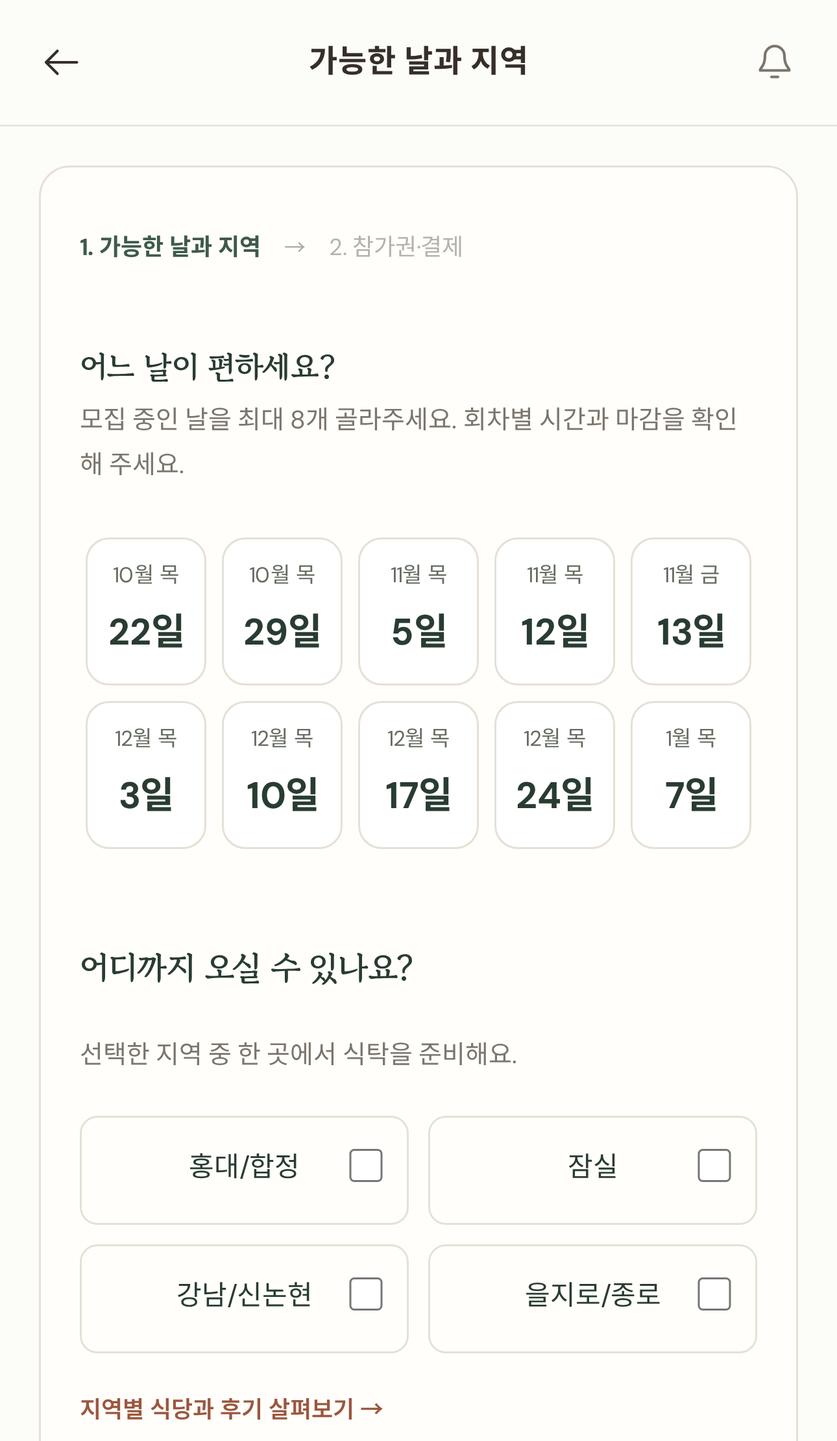
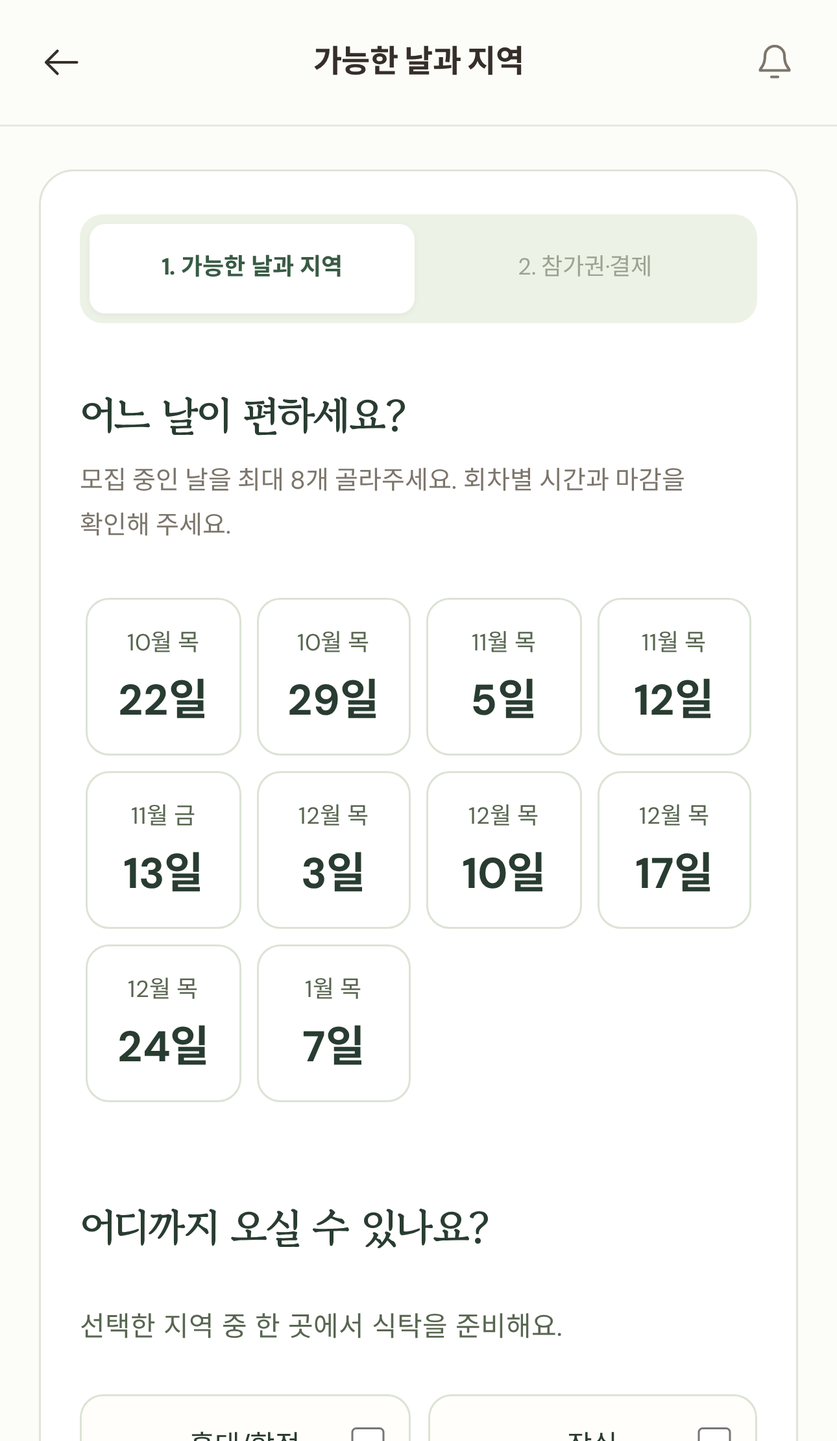
Polish participant mobile layouts and refresh guide screens

diff --git a/app/participant-mobile.css b/app/participant-mobile.css
@@ -1,0 +1,223 @@
+/* Participant phone layouts. Operator surfaces and 701px+ retain their layouts. */
+.evening-date{display:none}
+@media(max-width:700px){
+  .participant-page{
+    --phone-ink:#293c31;--phone-muted:#586651;--phone-line:#dfe5d9;--phone-sage:#edf2e6;
+    padding:26px 20px calc(112px + env(safe-area-inset-bottom))!important;
+    word-break:keep-all;overflow-wrap:break-word;
+  }
+  .participant-page :is(h1,h2,h3,p){word-break:keep-all;overflow-wrap:break-word}
+  .participant-page .page-heading{margin:0 0 25px}
+  .participant-page .page-heading h1{font-size:28px;letter-spacing:-.045em;line-height:1.4;margin-bottom:8px}
+  .participant-page .page-heading p{font-size:14px;line-height:1.8;color:var(--phone-muted);max-width:32em}
+  .participant-page .button{min-height:50px;font-size:14px;line-height:1.55;padding:13px 18px;border-radius:13px}
+  .participant-page .button.primary{box-shadow:none}
+  .participant-page .button:disabled{cursor:default;opacity:.5}
+  .participant-page .panel{background:#fff;border-color:var(--phone-line);box-shadow:none;border-radius:18px;padding:22px 20px;min-width:0}
+  .participant-page .panel h2{font-size:20px;line-height:1.5;letter-spacing:-.035em}
+  .participant-page .muted,.participant-page .fineprint{color:var(--phone-muted);line-height:1.8}
+  .participant-page .fineprint{font-size:12px;margin-top:20px}
+  .participant-page .notice{font-size:13px;line-height:1.85;border-color:var(--phone-line);border-radius:13px;background:#f2f5ee;color:var(--phone-ink);padding:15px 16px}
+  .participant-page .notice p{font-size:13px;line-height:1.85}
+  .participant-page .inline-link{font-size:13px;line-height:1.8;color:#385b44;min-height:44px;display:inline-flex;align-items:center}
+  .topbar:not(.admin-topbar){height:calc(64px + env(safe-area-inset-top));padding:env(safe-area-inset-top) 20px 0;border-bottom-color:#e4e9df}
+  .topbar:not(.admin-topbar) .brand{gap:10px;min-width:0}
+  .topbar:not(.admin-topbar) .brand-name{font-size:19px;letter-spacing:-.045em}
+  .topbar:not(.admin-topbar) .brand-symbol{width:32px;height:32px}
+  .topbar:not(.admin-topbar) .mobile-header-actions{gap:12px!important}
+  .topbar:not(.admin-topbar) .mobile-header-actions>a{min-height:44px;display:inline-flex;align-items:center;font-size:13px!important;color:#385b44}
+  .topbar:not(.admin-topbar) .focus-mobile-heading{gap:12px;min-width:0;align-items:center}
+  .topbar:not(.admin-topbar) .focus-mobile-heading>a{min-width:44px;min-height:44px;display:grid;place-items:center}
+  .topbar:not(.admin-topbar) .focus-mobile-title{font-size:16px;letter-spacing:-.035em;line-height:1.5;min-width:0}
+  .mobile-dock{height:calc(76px + env(safe-area-inset-bottom));padding:8px 14px calc(8px + env(safe-area-inset-bottom))!important;background:rgba(252,252,248,.98)!important}
+  .mobile-dock>a{min-height:56px;font-size:12px!important;font-weight:500;line-height:1.4;color:#586651!important;justify-content:center;gap:4px!important}
+  .mobile-dock>a>span{height:31px!important;width:48px!important;border-radius:12px!important}
+  .mobile-dock>a.active{color:#294b32!important;font-weight:700}
+  .participant-page .experience-section{margin:28px 0}
+  .participant-page .experience-section-heading{display:grid;grid-template-columns:minmax(0,1fr) auto;align-items:center;gap:7px 12px;margin-bottom:17px}
+  .participant-page .experience-section-heading>div{display:contents}
+  .participant-page .experience-section-heading h2{grid-column:1;grid-row:1}
+  .participant-page .experience-section-heading p{grid-column:1/-1}
+  .participant-page .experience-section-heading>a{grid-column:2;grid-row:1}
+  .participant-page .experience-section-heading h2{font-size:20px;line-height:1.5;letter-spacing:-.045em}
+  .participant-page .experience-section-heading p{font-size:13px;line-height:1.8;margin-top:7px;color:var(--phone-muted)}
+  .participant-page .experience-section-heading>a{font-size:12px;min-height:40px;color:#486044;align-items:center}
+  .participant-page .discovery-hero{border-radius:22px;margin:25px 0 32px;background:#edf2e6;border:1px solid #e5eadf}
+  .participant-page .discovery-hero-photo{min-height:190px!important}
+  .participant-page .discovery-hero-photo img{object-position:50% 54%;filter:none}
+  .participant-page .discovery-hero-photo:after{content:'';position:absolute;inset:30% 0 0;background:linear-gradient(transparent,rgba(25,39,26,.62));pointer-events:none}
+  .participant-page .discovery-hero-photo>div{z-index:1;left:23px;right:23px;bottom:20px}
+  .participant-page .discovery-hero-photo>div>span{font-size:12px;margin-bottom:5px}
+  .participant-page .discovery-hero-photo strong{font-size:17px;line-height:1.6}
+  .participant-page .discovery-hero-copy{padding:25px 24px 24px!important}
+  .participant-page .discovery-hero-copy .quiet-kicker{display:none}
+  .participant-page .discovery-hero-copy h2{font-size:30px!important;line-height:1.5!important;letter-spacing:-.055em;margin:0 0 14px}
+  .participant-page .discovery-hero-copy p{font-size:14px!important;line-height:1.9;margin:0 0 20px;color:#50644d}
+  .participant-page .discovery-hero-copy .button{width:100%;min-height:51px!important;justify-content:center;font-size:15px!important}
+  .participant-page .hero-note{font-size:12px;color:#586651;text-align:center;margin-top:12px}
+  .participant-page .discovery-hero-returning{margin:26px 0 32px;border:0;border-left:3px solid #b9cbb0;border-radius:0 15px 15px 0;background:#f1f4eb}
+  .participant-page .discovery-hero-returning .discovery-hero-photo{display:none}
+  .participant-page .discovery-hero-returning .discovery-hero-copy{padding:20px!important}
+  .participant-page .discovery-hero-returning .discovery-hero-copy h2{font-size:23px!important;line-height:1.45!important;margin-bottom:10px}
+  .participant-page .discovery-hero-returning .discovery-hero-copy h2 br{display:none}
+  .participant-page .discovery-hero-returning .discovery-hero-copy p{font-size:13px!important;line-height:1.8;margin-bottom:16px}
+  .participant-page .discovery-hero-returning .discovery-hero-copy p br{display:none}
+  .participant-page .discovery-hero-returning .hero-note{display:none}
+  .participant-page .evening-grid{grid-template-columns:minmax(0,1fr);gap:12px}
+  .participant-page .evening-card{display:grid;grid-template-columns:58px minmax(0,1fr);gap:15px;align-items:center;padding:16px;background:#fff;border:1px solid var(--phone-line);border-radius:17px;box-shadow:none}
+  .participant-page .evening-card .evening-illustration{display:none}
+  .participant-page .evening-date{display:flex;flex-direction:column;align-items:center;justify-content:center;gap:5px;min-height:76px;border-radius:13px;background:#edf2e6;color:#385b44}
+  .participant-page .evening-1 .evening-date{background:#f3ede2;color:#765832}
+  .participant-page .evening-2 .evening-date{background:#e9efec;color:#36594e}
+  .participant-page .evening-date small{font-size:12px;line-height:1.4}
+  .participant-page .evening-date strong{font:600 29px/1.2 'Gowun Batang',serif;font-variant-numeric:tabular-nums}
+  .participant-page .evening-card-copy{padding:0;min-width:0}
+  .participant-page .evening-card-copy .section-title{gap:7px;align-items:center;margin-bottom:9px;flex-wrap:wrap}
+  .participant-page .evening-card-copy .meeting-state{font-size:11px;padding:3px 6px;border-radius:6px}
+  .participant-page .evening-card-copy small{font-size:12px;color:#586651}
+  .participant-page .evening-card-copy h3{font-size:17px;line-height:1.5;margin:0 0 5px;letter-spacing:-.035em}
+  .participant-page .evening-card-copy p{font-size:13px;line-height:1.6;margin:0 0 10px;color:#586651}
+  .participant-page .evening-card-copy>div:last-child{display:flex;justify-content:space-between;align-items:center;flex-wrap:wrap;gap:5px 10px;border-top:0;padding-top:0}
+  .participant-page .evening-card-copy>div:last-child>span{font-size:12px;line-height:1.6;margin:0;color:#586651}
+  .participant-page .evening-card-copy strong{font-size:12px;color:#385b44;white-space:nowrap}
+  .participant-page .meet-card{padding:19px 18px;border-radius:19px;border:1px solid var(--phone-line);box-shadow:none;background:white}
+  .participant-page .meet-card-top{gap:10px;align-items:center;flex-wrap:wrap;margin-bottom:18px}
+  .participant-page .meet-card-top>span:last-child{font-size:12px;color:#586651;line-height:1.7}
+  .participant-page .meeting-state{font-size:12px;line-height:1.6;padding:4px 8px;white-space:normal}
+  .participant-page .meet-card-main{display:grid;grid-template-columns:54px minmax(0,1fr);gap:14px}
+  .participant-page .meet-card-main>svg{display:none}
+  .participant-page .meet-card-main>div{min-width:0}
+  .participant-page .meet-card-art{width:54px;height:72px;border-radius:13px;background:#eef2e8}
+  .participant-page .meet-card-art svg{width:30px;height:30px}
+  .participant-page .meet-card-art>span{font-size:12px;line-height:1.5}
+  .participant-page .meet-card-main h2{font-family:'Noto Sans KR',sans-serif;font-size:18px;line-height:1.65;font-weight:700;letter-spacing:-.045em;margin:0 0 7px}
+  .participant-page .meet-card-main p{font-size:13px;line-height:1.7;margin:0 0 9px;color:#586651}
+  .participant-page .interest-chips{gap:5px}
+  .participant-page .interest-chips>span{font-size:12px;line-height:1.6;padding:3px 7px;color:#52634b;background:#f1f4ed;border-radius:6px}
+  .participant-page .meet-card-footer{display:flex;flex-wrap:wrap;gap:10px;align-items:center;padding-top:16px;margin-top:18px;border-top-color:#e7ece2}
+  .participant-page .meet-card-footer>span{font-size:13px;color:#586651}
+  .participant-page .meet-card-footer>a{font-size:13px;min-height:44px;margin-left:auto}
+  .participant-page .meet-card-footer .people-stack>span{width:26px;height:26px;font-size:10px;margin-left:-7px}
+  .participant-page .meet-card-footer .people-stack>span:first-child{margin-left:0}
+  .participant-page .meeting-tabs{display:grid;grid-template-columns:none;grid-auto-flow:column;grid-auto-columns:minmax(0,1fr);gap:4px;background:#edf2e6;border:0;border-radius:13px;padding:5px;margin:0 0 22px}
+  .participant-page .meeting-tabs>a{font-size:13px;line-height:1.6;justify-content:center;gap:5px;min-height:46px;padding:10px 4px;border:0;color:#586651;border-radius:9px;white-space:normal}
+  .participant-page .meeting-tabs>a:focus-visible,.participant-page .conversation-row:focus-visible{outline-offset:-3px}
+  .participant-page .meeting-tabs>a[aria-current=page]{background:#fff;color:#294b32;box-shadow:0 1px 4px #293c3110;border:0}
+  .participant-page .meeting-tabs>a>span{font-size:11px;padding:1px 5px;min-width:20px;background:transparent}
+  .participant-page .pending-meeting-card{padding:22px 19px;border:1px solid var(--phone-line);border-radius:18px;box-shadow:none}
+  .participant-page .pending-meeting-card h2{font-size:19px;line-height:1.6}
+  .participant-page .pending-meeting-card>p,.participant-page .pending-meeting-card p.pending-next{font-size:13px;line-height:1.9;color:#586651}
+  .participant-page .matching-progress{font-size:12px;line-height:1.6;gap:6px;flex-wrap:wrap}
+  .participant-page .meeting-bottom-link{font-size:14px;min-height:52px;padding:13px;border:1px dashed #b9cbb0;border-radius:13px;margin-top:22px}
+  .participant-page .next-action-row{padding:17px 16px;border-radius:15px;gap:12px;min-width:0;align-items:flex-start}
+  .participant-page .next-action-row>div{min-width:0}
+  .participant-page .next-action-row strong{font-size:15px;line-height:1.7}
+  .participant-page .next-action-row p{font-size:13px;line-height:1.8;color:#586651}
+  .participant-page .next-action-row>a{font-size:13px;min-height:44px;flex-shrink:0}
+  .participant-page .experience-empty{padding:38px 22px;background:#f0f4e9;border-radius:19px}
+  .participant-page .experience-empty h2{font-size:22px;line-height:1.6;margin:17px 0 12px}
+  .participant-page .experience-empty p{font-size:14px;line-height:1.9;color:#586651}
+  .participant-page .experience-empty>a{font-size:14px;min-height:44px;display:inline-flex;align-items:center}
+  .participant-page .how-dinner-works{margin-top:34px;padding:30px 0;gap:28px}
+  .participant-page .how-dinner-works>div>h2{font-size:25px;line-height:1.65;letter-spacing:-.045em}
+  .participant-page .how-dinner-works>div>p,.participant-page .how-dinner-works li p{font-size:14px;line-height:1.9;color:#586651}
+  .participant-page .how-dinner-works li h3{font-size:16px;line-height:1.6}
+  .participant-page .experience-note p,.participant-page .experience-note>a{font-size:13px;line-height:1.9;color:#586651}
+  .participant-page .profile-identity-new{padding:23px 20px!important;border:1px solid #dce5d3;border-radius:21px;background:#edf2e6;margin-bottom:28px}
+  .participant-page .profile-identity-new .profile-avatar{width:55px;height:55px;font-size:23px;background:#dce7cf;color:#385b44}
+  .participant-page .profile-identity-new>div{min-width:0}
+  .participant-page .profile-identity-new h2{font-size:21px!important;line-height:1.6;letter-spacing:-.04em}
+  .participant-page .profile-identity-new p{font-size:13px;line-height:1.8;color:#586651}
+  .participant-page .profile-menu-group{margin-top:29px}
+  .participant-page .profile-menu-group>h2{font-size:13px;font-family:'Noto Sans KR',sans-serif;font-weight:600;color:#586651;margin:0 0 12px 3px}
+  .participant-page .profile-menu-group .compact-list{border-radius:17px;border-color:var(--phone-line)}
+  .participant-page .profile-menu-group .compact-row{padding:17px 16px;gap:13px;min-height:79px;border-bottom-color:#edf0e8}
+  .participant-page .profile-menu-group .row-icon{width:32px;height:36px;color:#57734f;flex-shrink:0}
+  .participant-page .profile-menu-group .row-copy{min-width:0}
+  .participant-page .profile-menu-group .row-copy>strong{font-size:15px;line-height:1.65;letter-spacing:-.025em}
+  .participant-page .profile-menu-group .row-copy>small{font-size:13px;line-height:1.8;color:#586651;margin-top:3px}
+  .participant-page .profile-signout{padding:24px 2px}
+  .participant-page .profile-signout button{font-size:13px;min-height:44px;color:#586651}
+  .participant-page.focus-page{padding:22px 20px calc(36px + env(safe-area-inset-bottom))!important}
+  .participant-page.focus-page .form-stack{gap:21px}
+  .participant-page.focus-page .form-stack>label,.participant-page .form-grid>label{font-size:14px;line-height:1.7;font-weight:500;gap:8px}
+  .participant-page.focus-page :is(input:not([type=checkbox]):not([type=radio]),select,textarea){font-size:16px;min-height:49px;border-radius:12px;border-color:#d8e1d1;background:#fff;color:#293c31}
+  .participant-page.focus-page .form-stack>p{font-size:14px;line-height:1.85}
+  .participant-page.focus-page .form-stack h2{font-size:21px;line-height:1.6;margin-top:3px}
+  .participant-page .application-progress{display:grid;grid-template-columns:none;grid-auto-flow:column;grid-auto-columns:minmax(0,1fr);gap:4px;border:0;background:#edf2e6;border-radius:12px;padding:5px;margin:0 0 7px}
+  .participant-page .application-progress>span{display:none}
+  .participant-page .application-progress button{font-size:12px!important;min-height:46px;padding:10px 5px;border:0;border-radius:8px;line-height:1.6;color:#586651}
+  .participant-page .application-progress [aria-current=step]{background:#fff;color:#385b44;box-shadow:0 1px 3px #293c3110}
+  .participant-page .availability-calendar{grid-template-columns:repeat(4,minmax(0,1fr));gap:8px;max-height:none;overflow:visible;padding:3px}
+  .participant-page .availability-day{position:relative;min-height:81px;border-radius:12px;gap:7px;border-color:#dce3d5;background:white}
+  .participant-page .availability-day small{font-size:12px;color:#586651;line-height:1.5}
+  .participant-page .availability-day strong{font-size:22px;line-height:1.3;color:#293c31}
+  .participant-page .availability-day.selected{background:#edf3e6;border-color:#55784d;box-shadow:inset 0 0 0 1px #55784d}
+  .participant-page .availability-day.selected:after{content:'✓';position:absolute;right:5px;top:2px;font-size:11px;font-weight:700;color:#385b44;pointer-events:none}
+  .participant-page .availability-areas{gap:9px}
+  .participant-page .availability-areas .event-option{padding:14px 12px;min-height:55px;border-color:#dce3d5;border-radius:12px;font-size:14px;line-height:1.6;gap:8px}
+  .participant-page .availability-areas input{accent-color:#385b44}
+  .participant-page .pass-grid{grid-template-columns:1fr;gap:11px}
+  .participant-page .pass-option{padding:18px 18px 18px 48px!important;border-radius:15px;border-color:#dce3d5;min-height:112px}
+  .participant-page .pass-option input{top:22px!important}
+  .participant-page .pass-option span{font-size:15px!important;line-height:1.6}
+  .participant-page .pass-option strong{font-size:23px!important;line-height:1.5}
+  .participant-page .pass-option small{font-size:13px!important;line-height:1.7;color:#586651}
+  .participant-page .conversation-list{border-radius:18px;border-color:var(--phone-line)}
+  .participant-page .conversation-row{padding:19px 15px;gap:13px;min-height:107px}
+  .participant-page .conversation-avatar{width:51px;height:56px;border-radius:14px}
+  .participant-page .conversation-copy{min-width:0}
+  .participant-page .conversation-copy>div{align-items:flex-start;gap:10px}
+  .participant-page .conversation-copy h2{font-size:16px;line-height:1.6;white-space:normal;letter-spacing:-.035em}
+  .participant-page .conversation-copy p{font-size:14px;line-height:1.7;margin-top:6px;color:#586651}
+  .participant-page .conversation-copy small{font-size:12px;line-height:1.8;color:#586651}
+  .participant-page .conversation-copy>span{font-size:12px;line-height:1.8;color:#586651}
+  .participant-page .chat-room-heading{display:grid;grid-template-columns:1fr 1fr;gap:13px 10px;padding:19px 17px;border-radius:17px;border-color:var(--phone-line);margin-bottom:18px}
+  .participant-page .chat-room-heading>div{grid-column:1/-1;min-width:0}
+  .participant-page .chat-room-heading h2{font-size:18px;line-height:1.65;letter-spacing:-.04em;margin-bottom:7px}
+  .participant-page .chat-room-heading p{font-size:13px;line-height:1.8;color:#586651}
+  .participant-page .chat-room-heading>a{min-height:44px;border:1px solid #dfe5d9;border-radius:10px;justify-content:center;font-size:13px;line-height:1.6;color:#385b44}
+  .participant-page .chat-timeline{padding:20px 13px;border-radius:17px;background:#f0f4ea;gap:23px}
+  .participant-page .chat-message{max-width:94%;gap:9px;min-width:0}
+  .participant-page .chat-message strong{font-size:12px;line-height:1.7;margin-bottom:6px;color:#52654b}
+  .participant-page .chat-person-avatar{width:28px;height:28px;border-radius:10px;background:#dfe9d4;font-size:11px}
+  .participant-page .chat-message-line{min-width:0;gap:5px}
+  .participant-page .chat-message-line>p{font-size:15px;line-height:1.85;padding:11px 13px;color:#293c31;border-radius:0 14px 14px 14px;min-width:0;word-break:keep-all;overflow-wrap:anywhere}
+  .participant-page .chat-message.own .chat-message-line>p{border-radius:14px 0 14px 14px;background:#dfead1}
+  .participant-page .chat-timeline .chat-message time{font-size:11px;color:#586651}
+  .participant-page .chat-system-message{max-width:100%;gap:8px;padding:14px 16px;border-radius:14px;background:#ffffffa6;color:#586651}
+  .participant-page .chat-system-message p{font-size:13px;line-height:1.9;color:#586651}
+  .participant-page .chat-compose-new{padding-top:17px;gap:9px}
+  .participant-page .chat-compose-new>input{font-size:16px;min-height:52px;border-radius:14px;border-color:#d8e1d1}
+  .participant-page .chat-compose-new>button{height:50px;width:50px;border-radius:14px;flex-shrink:0}
+  .participant-page .chat-archived-note{font-size:13px;line-height:1.9;color:#586651}
+  .participant-page .table-detail-heading h2{font-size:24px;line-height:1.65;letter-spacing:-.045em;margin:15px 0 12px}
+  .participant-page .table-detail-heading>p{font-size:14px;line-height:1.8;color:#586651}
+  .participant-page .focus-switcher{display:grid;grid-template-columns:none;grid-auto-flow:column;grid-auto-columns:minmax(0,1fr);gap:3px;background:#edf2e6;border:0;border-radius:12px;padding:5px;margin:23px 0}
+  .participant-page .focus-switcher>button,.participant-page .focus-switcher>a{font-size:12px!important;line-height:1.6;min-height:48px;padding:9px 5px;border:0;border-radius:8px;justify-content:center;display:flex;align-items:center;color:#586651;text-align:center}
+  .participant-page .focus-switcher [aria-pressed=true]{background:white;color:#385b44;box-shadow:0 1px 3px #293c3110;border:0}
+  .participant-page .venue-card h3{font-size:23px;line-height:1.55;margin:0 0 12px}
+  .participant-page .venue-card p{font-size:14px;line-height:1.9;color:#586651}
+  .participant-page .venue-card small{font-size:12px;line-height:1.8;color:#586651}
+  .participant-page .detail-disclosure{border-color:#dfe5d9;border-radius:15px;padding:17px 18px;box-shadow:none}
+  .participant-page .detail-disclosure>summary{font-size:14px;line-height:1.85;min-height:27px;font-weight:600;cursor:pointer}
+  .participant-page .detail-disclosure p{font-size:14px;line-height:1.9;color:#586651}
+  .participant-page .table-detail-actions{padding-top:8px}
+  .participant-page #check-in-help{font-size:13px;line-height:1.85;margin:13px 0 18px}
+  .participant-page .member-list li{min-width:0;font-size:14px;line-height:1.8}
+  .participant-page .member-list small{font-size:13px;color:#586651}
+  .participant-page .notification-row{border-color:#dfe5d9;border-radius:15px;padding:18px 17px;font-size:14px;line-height:1.85}
+  .participant-page .notification-row p{font-size:14px;line-height:1.85}
+  .participant-page .journey-state{font-size:14px;line-height:1.9;padding:32px 20px}
+}
+@media(max-width:375px){
+  .participant-page .meet-card{padding:17px 15px}
+  .participant-page .meet-card-main{grid-template-columns:46px minmax(0,1fr);gap:12px}
+  .participant-page .meet-card-art{width:46px;height:65px}
+  .participant-page .meet-card-main h2{font-size:17px}
+  .participant-page .evening-card{grid-template-columns:50px minmax(0,1fr);gap:12px;padding:15px 13px}
+  .participant-page .evening-card-copy h3{font-size:16px}
+}
+
+@media(max-width:430px){.participant-page .meet-card-footer>a{flex-basis:100%;justify-content:flex-end}}
+@media(max-width:700px) and (hover:none){.participant-page .evening-card:hover{transform:none;box-shadow:none;border-color:#dfe5d9}}

diff --git a/components/meeting-experience.tsx b/components/meeting-experience.tsx
@@ -10,10 +10,11 @@ const time=(v:string)=>new Intl.DateTimeFormat('ko-KR',{timeZone:'Asia/Seoul',ho
 const remaining=(v:string)=>{const hours=Math.max(0,Math.ceil((+new Date(v)-Date.now())/3600000));return hours>=24?`${Math.ceil(hours/24)}일 뒤 마감`:`${hours}시간 뒤 마감`;};
 function Avatars({members=[],large=false}:{members?:any[];large?:boolean}){return <div className={`people-stack ${large?'large':''}`} aria-label={`${members.length}명의 식탁 멤버`}>{members.slice(0,6).map((m:any,i:number)=><span className={`person-color-${i%6}`} key={m.user_id??i} title={m.display_name}>{m.display_name?.slice(0,1)||'나'}</span>)}</div>;}
 function MeetingCard({table,past=false}:{table:any;past?:boolean}){return <article className="meet-card"><div className="meet-card-top"><span className={`meeting-state ${past?'finished':'ready'}`}>{past?'함께한 저녁':'만남 확정'}</span><span>{date(table.starts_at)} {time(table.starts_at)}</span></div><Link className="meet-card-main" href={`/tables/${table.table_id}`}><div className="meet-card-art"><UiIcon name="table" size={45}/><span>{table.area.split('/')[0]}</span></div><div><h2>{table.title}</h2><p><UiIcon name="pin" size={15}/>{table.venue_name||'장소를 준비하고 있어요'}</p><div className="interest-chips">{table.curation?.keywords?.slice(0,3).map((k:any)=><span key={k.label}>{k.label}</span>)}</div></div><UiIcon name="chevron"/></Link><div className="meet-card-footer"><Avatars members={table.members}/><span>{table.members?.length??0}명이 함께해요</span><Link href={past?`/tables/${table.table_id}${table.feedback_submitted||table.attendance_status==='ATTENDED'?'/feedback':''}`:`/tables/${table.table_id}/chat`}>{past?(table.feedback_submitted?'내 후기 보기':table.attendance_status==='ATTENDED'?'후기 남기기':'만남 기록 보기'):'대화방 열기'}<UiIcon name={past?'leaf':'message'} size={16}/></Link></div></article>;}
-function OpenEvenings({data,compact=false}:{data:any;compact?:boolean}){return <section className="experience-section"><div className="experience-section-heading"><div><h2>{compact?'다음 저녁을 골라보세요':'어느 저녁에 만날까요?'}</h2><p>날짜와 지역을 고르면, 어울리는 식탁을 준비해요.</p></div>{!compact&&<Link href="/apply">일정 모두 보기<UiIcon name="chevron" size={16}/></Link>}</div><div className="evening-grid">{data?.events?.slice(0,compact?3:6).map((e:any,i:number)=><Link className={`evening-card evening-${i%3}`} key={e.id} href={`/apply?day=${e.day}&area=${encodeURIComponent(e.area)}`}><div className="evening-illustration" aria-hidden="true"><span className="illustrated-plate"><span/><i/><b/></span><em>{['이야기가 모이는 자리','취향이 이어지는 저녁','새로운 목요일'][i%3]}</em></div><div className="evening-card-copy"><div className="section-title"><span className="meeting-state recruiting">모집 중</span><small>{remaining(e.application_deadline)}</small></div><h3>{e.area}</h3><p>{date(e.starts_at)} {time(e.starts_at)}</p><div><span>{e.registrations>0?`${e.registrations}명이 신청했어요`:'새로운 식탁을 준비해요'}</span><strong>일정 선택<UiIcon name="chevron" size={15}/></strong></div></div></Link>)}</div>{data?.events?.length===0&&<div className="experience-empty"><h3>다음 식탁을 준비하고 있어요</h3><p>새로운 일정이 열리면 이곳에서 확인할 수 있어요.</p><Link href="/applications">내 만남 확인하기</Link></div>}</section>;}
+function EveningDate({value}:{value:string}){const parts=new Intl.DateTimeFormat('ko-KR',{timeZone:'Asia/Seoul',month:'numeric',day:'numeric'}).formatToParts(new Date(value));return <span className="evening-date" aria-hidden="true"><small>{parts.find(p=>p.type==='month')?.value}월</small><strong>{parts.find(p=>p.type==='day')?.value}</strong></span>;}
+function OpenEvenings({data,compact=false}:{data:any;compact?:boolean}){return <section className="experience-section"><div className="experience-section-heading"><div><h2>{compact?'다음 저녁을 골라보세요':'어느 저녁에 만날까요?'}</h2><p>날짜와 지역을 고르면, 어울리는 식탁을 준비해요.</p></div>{!compact&&<Link href="/apply">일정 모두 보기<UiIcon name="chevron" size={16}/></Link>}</div><div className="evening-grid">{data?.events?.slice(0,compact?3:6).map((e:any,i:number)=><Link className={`evening-card evening-${i%3}`} key={e.id} href={`/apply?day=${e.day}&area=${encodeURIComponent(e.area)}`}><EveningDate value={e.starts_at}/><div className="evening-illustration" aria-hidden="true"><span className="illustrated-plate"><span/><i/><b/></span><em>{['이야기가 모이는 자리','취향이 이어지는 저녁','새로운 목요일'][i%3]}</em></div><div className="evening-card-copy"><div className="section-title"><span className="meeting-state recruiting">모집 중</span><small>{remaining(e.application_deadline)}</small></div><h3>{e.area}</h3><p>{date(e.starts_at)} {time(e.starts_at)}</p><div><span>{e.registrations>0?`${e.registrations}명이 신청했어요`:'새로운 식탁을 준비해요'}</span><strong>일정 선택<UiIcon name="chevron" size={15}/></strong></div></div></Link>)}</div>{data?.events?.length===0&&<div className="experience-empty"><h3>다음 식탁을 준비하고 있어요</h3><p>새로운 일정이 열리면 이곳에서 확인할 수 있어요.</p><Link href="/applications">내 만남 확인하기</Link></div>}</section>;}
 export function DiscoverView({loggedIn=true}:{loggedIn?:boolean}){
  const q=useJourney('/api/discover'),journey=useJourney(loggedIn?'/api/journey':null,15000),next=loggedIn?journey.data?.upcoming?.[0]:null,pending=loggedIn?(journey.data?.applications??[]).filter((a:any)=>a.status==='SUBMITTED'&&!a.table_id&&['WAITING','MATCHING','REALLOCATING'].includes(a.matching_status)):[];
- const hero=<section className={`discovery-hero ${loggedIn?'':'public-discovery-hero'}`}><div className="discovery-hero-copy"><span className="quiet-kicker">우연한 식탁</span><h2>{next?<>다가오는 저녁엔,<br/>혼자가 아닌 저녁.</>:<>좋은 만남은,<br/>같은 식탁에서.</>}</h2><p>취향이 닮은 4~6명과 함께하는 저녁.<br/>날짜를 고르면, 만남은 우리가 준비할게요.</p><Link className="button primary" href={next?`/tables/${next.table_id}`:'/apply'}>{next?'나의 식탁 확인하기':'만날 날짜 고르기'}<UiIcon name="chevron" size={17}/></Link><span className="hero-note">매주 목요일 저녁 7시 30분</span></div><div className="discovery-hero-photo"><img src="/dining-editorial.webp" width="1200" height="800" alt="새로운 이야기를 기다리는 따뜻한 저녁 식탁" fetchPriority="high"/><div><span>우리의 다음 이야기</span><strong>같이 먹으면, 조금 더 특별해요.</strong></div></div></section>;
+ const hero=<section className={`discovery-hero ${loggedIn?'':'public-discovery-hero'} ${next?'discovery-hero-returning':''}`}><div className="discovery-hero-copy"><span className="quiet-kicker">우연한 식탁</span><h2>{next?<>다음 저녁에도,<br/>새로운 이야기.</>:<>좋은 만남은,<br/>같은 식탁에서.</>}</h2><p>{next?<>가능한 날과 지역을 골라,<br/>다음 만남을 준비해 보세요.</>:<>취향이 닮은 4~6명과 함께하는 저녁.<br/>날짜를 고르면, 만남은 우리가 준비할게요.</>}</p><Link className="button primary" href="/apply">{next?'다른 저녁도 둘러보기':'만날 날짜 고르기'}<UiIcon name="chevron" size={17}/></Link><span className="hero-note">매주 목요일 저녁 7시 30분</span></div><div className="discovery-hero-photo"><img src="/dining-editorial.webp" width="1200" height="800" alt="새로운 이야기를 기다리는 따뜻한 저녁 식탁" fetchPriority="high"/><div><span>우리의 다음 이야기</span><strong>같이 먹으면, 조금 더 특별해요.</strong></div></div></section>;
  const body=<JourneyState {...q} onRefresh={q.refresh}>{loggedIn&&journey.error&&<div role="alert" className="notice"><p>내 만남의 최신 상태를 확인하지 못했어요. {journey.error}</p><button className="button quiet" onClick={()=>void journey.refresh()}>내 만남 다시 확인</button></div>}{loggedIn&&journey.data?.alternativeCount>0&&<Link className="next-action-row" href="/applications?view=pending"><span className="action-symbol"><UiIcon name="calendar"/></span><div><strong>다음 일정을 선택해 주세요</strong><p>조정이 필요한 신청 {journey.data.alternativeCount}건 · 일정 이동, 참가권 보관, 환불 중 선택할 수 있어요.</p></div><UiIcon name="chevron"/></Link>}{loggedIn&&journey.data?.applications?.some((a:any)=>['PENDING','FAILED','REFUND_REQUESTED','REFUND_PROCESSING','REFUND_FAILED'].includes(a.payment_status))&&<Link className="next-action-row" href="/payments"><span className="action-symbol"><UiIcon name="clock"/></span><div><strong>결제·환불 상태를 확인해 주세요</strong><p>진행 중이거나 확인이 필요한 결제 내역이 있어요.</p></div><UiIcon name="chevron"/></Link>}{loggedIn&&journey.data?.profileComplete===false&&<div className="next-action-row"><span className="action-symbol"><UiIcon name="user"/></span><div><strong>먼저, 당신의 취향을 알려주세요</strong><p>짧은 질문에 답하면 어울리는 식탁을 준비할 수 있어요.</p></div><Link href="/profile/test">취향 입력<UiIcon name="chevron" size={16}/></Link></div>}{loggedIn&&(next||pending.length>0)&&<section className="experience-section"><div className="experience-section-heading"><h2>지금, 나의 만남</h2><Link href="/applications">모두 보기<UiIcon name="chevron" size={16}/></Link></div>{next?<MeetingCard table={next}/>:<Link className="next-action-row" href="/applications?view=pending"><span className="action-symbol"><UiIcon name="clock"/></span><div><strong>함께할 사람들을 찾고 있어요</strong><p>{pending.length}개의 신청이 매칭을 기다리고 있어요. 마감 일정과 진행 상황을 확인하세요.</p></div><UiIcon name="chevron"/></Link>}</section>}{hero}<OpenEvenings data={q.data}/><section id="how-it-works" className="how-dinner-works"><div><h2>한 번의 선택에서,<br/>한 번의 좋은 만남으로.</h2><p>사람을 끝없이 넘겨보지 않아도 괜찮아요.<br/>나의 취향과 편한 날짜에서 시작하세요.</p></div><ol><li><span><UiIcon name="user"/></span><div><h3>나를 알려주기</h3><p>관심사와 편한 대화 분위기를 골라요.</p></div></li><li><span><UiIcon name="calendar"/></span><div><h3>가능한 날짜 고르기</h3><p>오실 수 있는 지역과 저녁을 선택해요.</p></div></li><li><span><UiIcon name="table"/></span><div><h3>같은 식탁에서 만나기</h3><p>확정된 장소와 멤버를 확인하고 대화를 시작해요.</p></div></li></ol></section><section className="experience-note"><UiIcon name="leaf"/><p>처음 만나는 자리도 편안하도록.<br/>공통 관심사와 대화 주제를 함께 준비해요.</p><Link href="/restaurants">우리가 만날 공간 보기<UiIcon name="chevron" size={16}/></Link></section></JourneyState>;
  return loggedIn?<JourneyLayout title="발견" description="오늘의 선택이, 다음 저녁의 인연이 돼요.">{body}</JourneyLayout>:<><SiteNav loggedIn={false}/><main id="main-content" className="page participant-page discovery-public"><h1 className="visually-hidden">좋은 사람들과 함께하는 저녁, 우연한 식탁</h1>{body}</main><footer className="experience-footer"><span>우연한 식탁</span><Link href="/support">문의하기</Link><Link href="/privacy">개인정보 안내</Link></footer></>;
 }

diff --git a/app/layout.tsx b/app/layout.tsx
@@ -1,7 +1,7 @@
 import {SiteLinksProvider} from '@/components/site-links';
 import {siteOrigins} from '@/lib/site-origins';
 import {ReviewIntro} from '@/components/review-intro';
-import type { Metadata, Viewport } from 'next';import './globals.css';import './evolution.css';import './mobile.css';import './experience.css';import './guide.css';
-export const viewport:Viewport={width:'device-width',initialScale:1,viewportFit:'cover',themeColor:'#f7f4ee'};
+import type { Metadata, Viewport } from 'next';import './globals.css';import './evolution.css';import './mobile.css';import './experience.css';import './guide.css';import './participant-mobile.css';
+export const viewport:Viewport={width:'device-width',initialScale:1,viewportFit:'cover',themeColor:'#fcfcf8'};
 export const metadata:Metadata={title:'우연한 식탁 | Todaytable',description:'낯선 사람과 나누는 따뜻한 저녁'};
 export default function RootLayout({children}:{children:React.ReactNode}){return <html lang="ko"><body><a className="skip-link" href="#main-content">본문으로 바로 가기</a><SiteLinksProvider value={{participant:siteOrigins().participant??'/',operator:siteOrigins().operator??''}}><ReviewIntro/>{children}</SiteLinksProvider></body></html>}

diff --git a/tests/participant-mobile-browser.py b/tests/participant-mobile-browser.py
@@ -1,0 +1,61 @@
+"""Participant phone design and usable controls, against a synthetic local fixture."""
+import argparse,json
+from pathlib import Path
+from urllib.parse import urlparse
+from playwright.sync_api import sync_playwright,expect
+parser=argparse.ArgumentParser();parser.add_argument('--base',default='http://127.0.0.1:3342');parser.add_argument('--section',choices=['screens','controls','scope'],default='screens');parser.add_argument('--widths',nargs='+',type=int,default=[360,390,430]);a=parser.parse_args()
+assert urlparse(a.base).hostname in ['127.0.0.1','localhost'],'Use the local synthetic fixture'
+base=a.base.rstrip('/');sessions=json.loads(Path('.data/final-guide/screenshots.json').read_text());out=Path('.data/mobile-design/browser');out.mkdir(parents=True,exist_ok=True);checks=[];errors=[]
+with sync_playwright() as p:
+ b=p.chromium.launch(headless=True,args=['--no-sandbox'])
+ def context(person='upcoming',width=390):
+  ctx=b.new_context(viewport={'width':width,'height':844},device_scale_factor=2,is_mobile=width<=700,has_touch=width<=700,reduced_motion='reduce');ctx.add_init_script("if(location.protocol==='http:'||location.protocol==='https:')sessionStorage.setItem('todaytable-review-intro-v1','seen')")
+  if person:ctx.add_cookies([{'name':'todaytable_session','value':sessions[person]['token'],'url':base}])
+  ctx.on('page',lambda pg:pg.on('pageerror',lambda err:errors.append(str(err))));return ctx
+ def visit(pg,path):
+  response=pg.goto(base+path);pg.wait_for_load_state('networkidle');assert response.status<400,(path,response.status);expect(pg.locator('.error-state')).to_have_count(0)
+ def fits(pg):
+  assert pg.evaluate('document.documentElement.scrollWidth<=innerWidth'),pg.url
+  assert pg.locator('main').bounding_box()['x']>=0
+ def shot(pg,name):
+  pg.evaluate('document.activeElement.blur();window.scrollTo(0,0)');pg.screenshot(path=str(out/(name+'.png')),full_page=True)
+ if a.section=='screens':
+  for width in a.widths:
+   ctx=context(width=width);pg=ctx.new_page()
+   for name,path in [('home','/'),('meetings','/applications'),('pending','/applications?view=pending'),('apply','/apply'),('profile','/profile'),('chats','/chats'),('chat','/tables/'+sessions['upcoming']['table_id']+'/chat'),('table','/tables/'+sessions['upcoming']['table_id']),('payments','/payments'),('notifications','/notifications')]:
+    visit(pg,path);fits(pg);expect(pg.locator('main h1')).to_have_count(1)
+    if width==390:shot(pg,name)
+    checks.append(f'{width}px {name}')
+   ctx.close()
+   ctx=context(None,width);pg=ctx.new_page();visit(pg,'/');fits(pg);assert len(pg.locator('.evening-date:visible').all())>0;assert pg.locator('.evening-grid').evaluate('(el)=>getComputedStyle(el).gridTemplateColumns.split(" ").length')==1
+   assert pg.locator('.discovery-hero-photo').bounding_box()['height']>=180
+   if width==390:shot(pg,'home-public')
+   ctx.close();checks.append(f'{width}px public date invitations');print(f'PASS {width}px: participant screens and public home',flush=True)
+ if a.section=='controls':
+  for width in a.widths:
+   ctx=context(width=width);pg=ctx.new_page();visit(pg,'/');expect(pg.locator('.discovery-hero-returning .button')).to_have_attribute('href','/apply')
+   assert pg.locator('.discovery-hero-returning .discovery-hero-photo').evaluate('(el)=>getComputedStyle(el).display')=='none'
+   for link in pg.locator('.mobile-dock a').all():assert link.bounding_box()['height']>=44
+   visit(pg,'/applications');pg.get_by_role('navigation',name='만남 상태').get_by_role('link',name='신청 중').click();pg.wait_for_url('**/applications?view=pending');pg.reload(wait_until='networkidle');fits(pg)
+   visit(pg,'/apply');data=ctx.request.get(base+'/api/availability').json();event=data['events'][0];pg.locator('.availability-day').nth(data['days'].index(event['day'])).get_by_role('checkbox').check();pg.get_by_label(event['area'],exact=True).check();pg.get_by_role('button',name='다음 · 참가권 확인').click();expect(pg.get_by_role('heading',name='참가권 확인',exact=True)).to_be_visible();fits(pg)
+   for option in pg.locator('.pass-option').all():
+    radio=option.locator('input').bounding_box();label=option.locator('span').bounding_box();price=option.locator('strong').bounding_box()
+    assert label['width']>0 and label['height']>0
+    assert radio['x']+radio['width']<=label['x']+1,'Radio overlaps pass label'
+    assert label['x']+label['width']<=price['x']+1 or label['y']+label['height']<=price['y']+1,'Pass label overlaps price'
+   if width==390:shot(pg,'apply-payment')
+   pg.get_by_label('3회 참가권',exact=False).check();expect(pg.get_by_role('button',name='15,000원 결제하고 신청하기')).to_be_visible()
+   # Selection only. Never submit the payment or refund.
+   visit(pg,'/tables/'+sessions['upcoming']['table_id']+'/chat');fits(pg);expect(pg.get_by_role('link',name='신고·차단')).to_be_visible();expect(pg.get_by_role('link',name='모임 안내')).to_be_visible();input=pg.get_by_label('메시지',exact=True);input.fill('모바일 화면 확인 중');expect(input).to_have_value('모바일 화면 확인 중');assert float(input.evaluate('(el)=>getComputedStyle(el).fontSize').replace('px',''))>=16
+   pg.set_viewport_size({'width':width,'height':480});input.focus();input.scroll_into_view_if_needed();assert input.bounding_box()['y']+input.bounding_box()['height']<=480;fits(pg)
+   ctx.close();checks.append(f'{width}px tabs, date/pass selection, touch targets, chat input');print(f'PASS {width}px: actual controls and short viewport',flush=True)
+ if a.section=='scope':
+  for width in [700,701,1120,1440]:
+   ctx=context(None,width);pg=ctx.new_page();visit(pg,'/');fits(pg);columns=pg.locator('.evening-grid').evaluate('(el)=>getComputedStyle(el).gridTemplateColumns.split(" ").length');assert columns==(1 if width<=700 else 2 if width<=900 else 3),(width,columns);ctx.close();checks.append(f'{width}px responsive boundary')
+  ctx=context('operator',390);pg=ctx.new_page()
+  for path in ['/admin','/admin/matching/review','/admin/bookings','/admin/settings']:
+   visit(pg,path);fits(pg);expect(pg.get_by_role('navigation',name='모바일 운영 메뉴')).to_be_visible();assert len(pg.locator('.participant-page').all())==0;checks.append(path+' operator layout')
+  ctx.close();print('PASS tablet/desktop boundaries and operator isolation',flush=True)
+ b.close()
+assert not errors,errors
+(out/(a.section+'-'+ '-'.join(map(str,a.widths))+'.json')).write_text(json.dumps({'checks':checks,'javascriptErrors':errors},ensure_ascii=False,indent=2));print(f'{len(checks)} checks passed; JavaScript errors 0',flush=True)

diff --git a/docs/MOBILE_PARTICIPANT_DESIGN_20261020.md b/docs/MOBILE_PARTICIPANT_DESIGN_20261020.md
@@ -1,0 +1,27 @@
+# 참가자 모바일 디자인 개선 — 2026-10-20
+
+기존 종이색·숲색과 식탁 사진을 유지하면서 휴대폰에서 날짜, 장소와 다음 행동을 쉽게 읽도록 구성했습니다. 새 스타일은 참가자 화면의 700px 이하에 적용합니다.
+
+- 홈: 세로 모집 목록과 한국 시간 기준 월·일 표시, 재방문 시 간결한 다음 신청 안내.
+- 내 모임: 긴 제목을 위한 공간, 균등한 상태 탭, 참가자 아이콘 아래 독립된 대화방 버튼.
+- 신청: 넓은 날짜·지역 선택, 참가권 라벨·가격 간격과 큰 입력 필드.
+- 채팅·마이페이지: 정돈된 상단 행동, 읽기 쉬운 말풍선과 안내문, 분명한 메뉴 계층.
+- 공통: 한글 단어 줄바꿈, 모바일 안전 영역, 44px 이상 주요 터치 영역, 키보드 포커스 보완.
+
+## Claude 협의
+
+Claude Opus 5.5를 읽기 전용으로 호출해 세 차례 협의했습니다. 첫 검토에서 모바일 화면과 기존 코드를 바탕으로 디자인 방향을 합의했고, 두 번째는 수정 화면과 CSS를 대조해 아바타 범위·탭 개수·한글 줄바꿈·버튼 배치를 보완했습니다. 최종 코드 검토에서는 배포를 막을 문제가 없다는 의견을 받았습니다. 남은 낮은 우선순위 포커스 잘림도 수정했습니다. Claude의 평가는 정적 검토이며, 실행 검증은 Codex가 수행합니다. 원문과 합성 계정 화면은 Git에 포함하지 않는 `.data/mobile-design/`에 보관합니다.
+
+## 실행 검증
+
+- `npm test`: 98개 중 93 통과, 실패 0, PostgreSQL 전용 5개 건너뜀.
+- `npm run build`: production 빌드 및 TypeScript 통과.
+- Playwright: 360·390·430px에서 참가자 10개 화면과 공개 홈 총 33개 확인 통과, JavaScript 오류 0.
+- 날짜·지역·참가권 선택, URL 탭 복원, 주요 터치 영역, 채팅 입력 및 480px 높이 화면을 세 폭에서 확인했습니다. 실제 결제·메시지 전송은 수행하지 않았습니다.
+- 700/701px 경계·1120/1440px 및 운영자 4개 화면 총 8개 범위 검사 통과.
+
+첫 브라우저 실행에서 테스트가 주입한 초기화 코드가 빈 브라우저 문서의 sessionStorage에 접근해 오류가 발생했습니다. HTTP(S) 문서에서만 초기화하도록 테스트를 수정하고 전체 화면 검사를 다시 통과했습니다. 제품 코드 오류와 구분합니다.
+
+참가자 가이드 4개 화면을 데스크톱 DPR 2·모바일 360/390/430px DPR 3의 16개 조합으로 재촬영했습니다. 각 PNG와 무손실 WebP의 디코딩 픽셀이 일치했습니다. 데스크톱 4장은 기존 파일과 동일하여 Git 변경은 모바일 12장입니다. 모든 계정·채팅·장소는 로컬 합성 fixture를 사용합니다. 실제 Safari/Android 기기의 검증은 수행하지 않았으며, 브라우저 검사는 Chromium의 모바일·터치·DPR 에뮬레이션입니다.
+
+최종 회귀 검사: 참가자·운영자 실제 여정 8개 그룹과 가이드 32개 화면·해상도 조합이 모두 통과했으며 JavaScript 오류는 0개입니다. 가이드 검사는 화면 폭 표시, 기기별 원본 선택, 이미지 응답과 원본 열기를 포함합니다. `git diff --check`도 통과했습니다.

diff --git a/tests/README.md b/tests/README.md
@@ -83,3 +83,8 @@ APP_URL=http://127.0.0.1:3340 node --env-file=.data/operator-browser.env node_mo
 ### 가이드 고해상도 이미지 검증
 
 `tests/capture-experience-guide.py`는 모바일 360·390·430px 각각 DPR 3, 데스크톱 DPR 2에서 글꼴 로딩 후 촬영하고, 설치된 Next.js의 `sharp`로 무손실 WebP를 생성합니다. 인코딩 전후 픽셀 일치를 검사합니다. 원본 PNG는 `.data/guide-quality/raw/`에 보관합니다. 캡처를 갱신한 뒤 빌드하고 `python tests/guide-image-quality-browser.py --base http://127.0.0.1:3340`로 32개 화면·해상도 조합과 원본 열기를 확인합니다.
+
+
+### 참가자 모바일 화면 검증
+
+위 로컬 fixture 서버에서 `python tests/participant-mobile-browser.py --base http://127.0.0.1:3342 --section screens`를 실행합니다. `--section controls`는 날짜·지역·참가권 선택과 채팅 입력·작은 높이·터치 영역을 검사하고 결제를 제출하지 않습니다. `--section scope`는 700/701px 경계, 데스크톱 및 운영자 화면의 범위 분리를 검사합니다. 기본 폭은 360·390·430px이며 `--widths 360`으로 좁힐 수 있습니다. 운영 주소는 허용하지 않습니다.

diff --git a/docs/STATUS.md b/docs/STATUS.md
@@ -1,5 +1,9 @@
-# 현재 현황 — 2026-10-20 참가자·운영자 체험 가이드
+# 현재 현황 — 2026-10-20 참가자 모바일 화면 개선
 
+
+## 참가자 모바일 화면 개선
+
+Claude Opus 5.5와 디자인 방향 협의·수정 화면 검토·최종 코드 검토를 진행했습니다. 모바일 홈은 날짜 중심의 모집 목록과 재방문용 간결한 안내로, 내 모임은 읽기 쉬운 제목과 분리된 대화방 버튼으로 정리했습니다. 신청 날짜·참가권 선택, 채팅, 마이페이지, 하단 메뉴의 글자와 터치 영역을 함께 개선했습니다. 참가자 전용 700px 이하 스타일을 분리하고, 가이드의 참가자 화면도 무손실 고해상도 캡처로 갱신했습니다. 전체 테스트 93 통과·실패 0·PostgreSQL 전용 5 건너뜀, 모바일 화면 33개·조작 3개 폭·범위 8개·여정 8개 그룹·가이드 32개 조합 통과, JavaScript 오류 0입니다. 검증 기록은 [모바일 개선 기록](MOBILE_PARTICIPANT_DESIGN_20261020.md)을 참고하세요.
 
 ## 가이드 화면 선명도 개선
 
